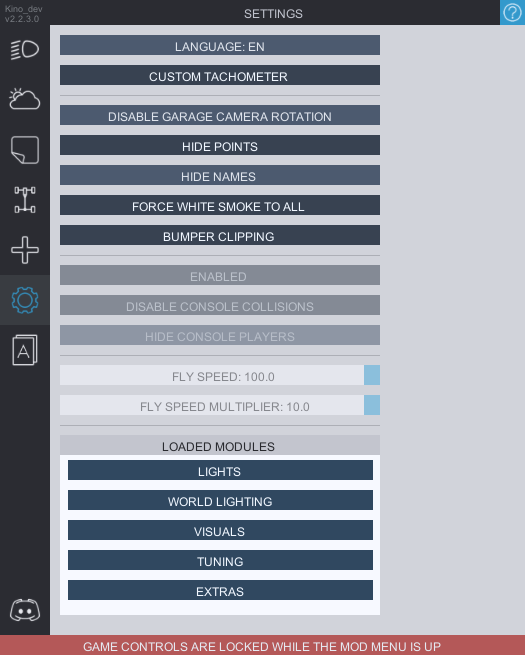
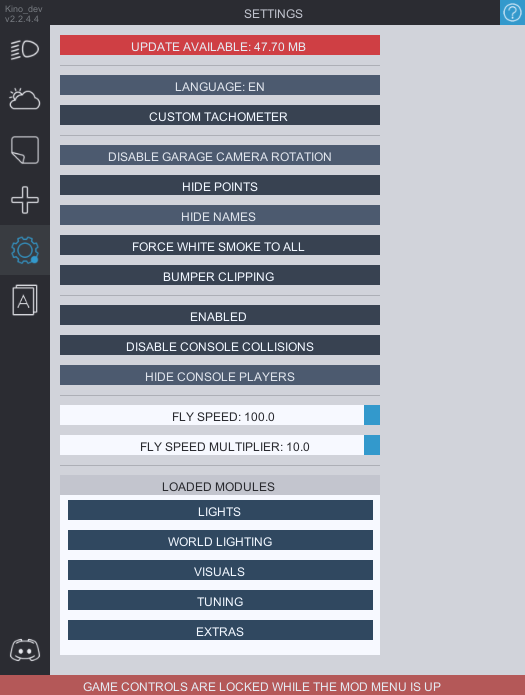
updated readme and help

diff --git a/README.md b/README.md
@@ -13,8 +13,8 @@
 
 * [**Car Lights**](https://github.com/trbflxr/kino/blob/master/Help/CarLights.md)  
 Lights for your car with pre-configured locations for both your headlights, tail lights and hazard lights. Light positions and color settings are synced between players who have the mod.
-* [**World Lighting**](https://github.com/trbflxr/kino/blob/master/Help/WorldLighting.md)  
-Allows to change the sunlight, skybox and ambient light brightness. Most people use this for night mode but you can actually make pretty nice looking morning/daylight configs. Also you can enable the volumetric fog and change it's distance and volume.
+* [**Weather**](https://github.com/trbflxr/kino/blob/master/Help/Weather.md)  
+Features rain with custom road shader, and few custom skyboxes to choose from. Allows to change the sunlight, skybox and ambient light brightness. Most people use this for night mode but you can actually make pretty nice looking morning/daylight configs. Also you can enable the volumetric fog and change it's distance and volume.
 * [**Visuals**](https://github.com/trbflxr/kino/blob/master/Help/Visuals.md)  
 Allows to save your liveries for copying (in case you want to experiment on it without risking unwanted changes being saved), creating backups (you never know when your profile can get reset for no reason), or sharing them with other players or apply the downloaded liveries.
 Also gives the ability to offset the camera in livery editor for easier livery creation.

diff --git a/Help/Weather.md b/Help/Weather.md
@@ -1,0 +1,13 @@
+![Weather](../Images/weather.png)
+# Weather
+In this tab you can **enable** the sliders to change the lighting settings such as the brightness of sunligh, skybox and ambient light as well the color temperature.
+
+**`FOG`** can has the options to configre the ***fog distance*** which is how far from the camera the fog will be, and the ***fog volume*** which is basically the thickness of the fog (doesn't really work on current carx version)
+
+**`RAIN INTESITY`** slider has 3 options for the instensity of the rain, which would affect how "thick" the rain effect is.
+
+**`RAIN COLLISIONS`** allows the rain to collide with objects to prevent it from falling through them. Might not work as intended under the tall bridges and on high speeds. Can cause lags in places with a lot of collidable object, mostly noticable on custom maps. Lowering the quality of collisions could reduce the lag, but also negatively affects the look of the effect. 
+
+**`SKYBOXES`** features an option to choose from a few custom skyboxes. Currently is broken on night maps.
+
+<p style="color:red;"><b>ON THE FIRST START YOU WILL HAVE TO DOWNLOAD THE ASSET BUNDLE FROM THE SETTINGS TAB</p></b>

diff --git a/Help/Settings.md b/Help/Settings.md
@@ -19,3 +19,5 @@ You can change the mod language here. Currently avaliable languages are ***eng, 
 **`FLY SPEED`** and **`FLY SPEED MULTIPLIER`** are the sliders used to control the speed of the noclip/flymod feature. You can only use it in modded (corrupted lobbies). This feature exists only for modded maps.
 
 **`LOADED MODULES`** is a list of mod modules that are curently being used by the mod. You can disable certain modules if you believe that they affect your game's performance or have conflicts with other mods.
+
+<p style="color:red;"><b>FOR THE RAIN AND SKYBOX FEATURES TO WORK YOU NEED TO DOWNLOAD THE ASSET BUNDLE. TO DOWNLOAD IT CLICK THE <i>UPDATE AVAILABLE</i> AT THE TOP. YOU WILL ALSO UPDATE THE BUNDLE FROM THIS TAB WHENEVER IS NEEDED.</p></b>
